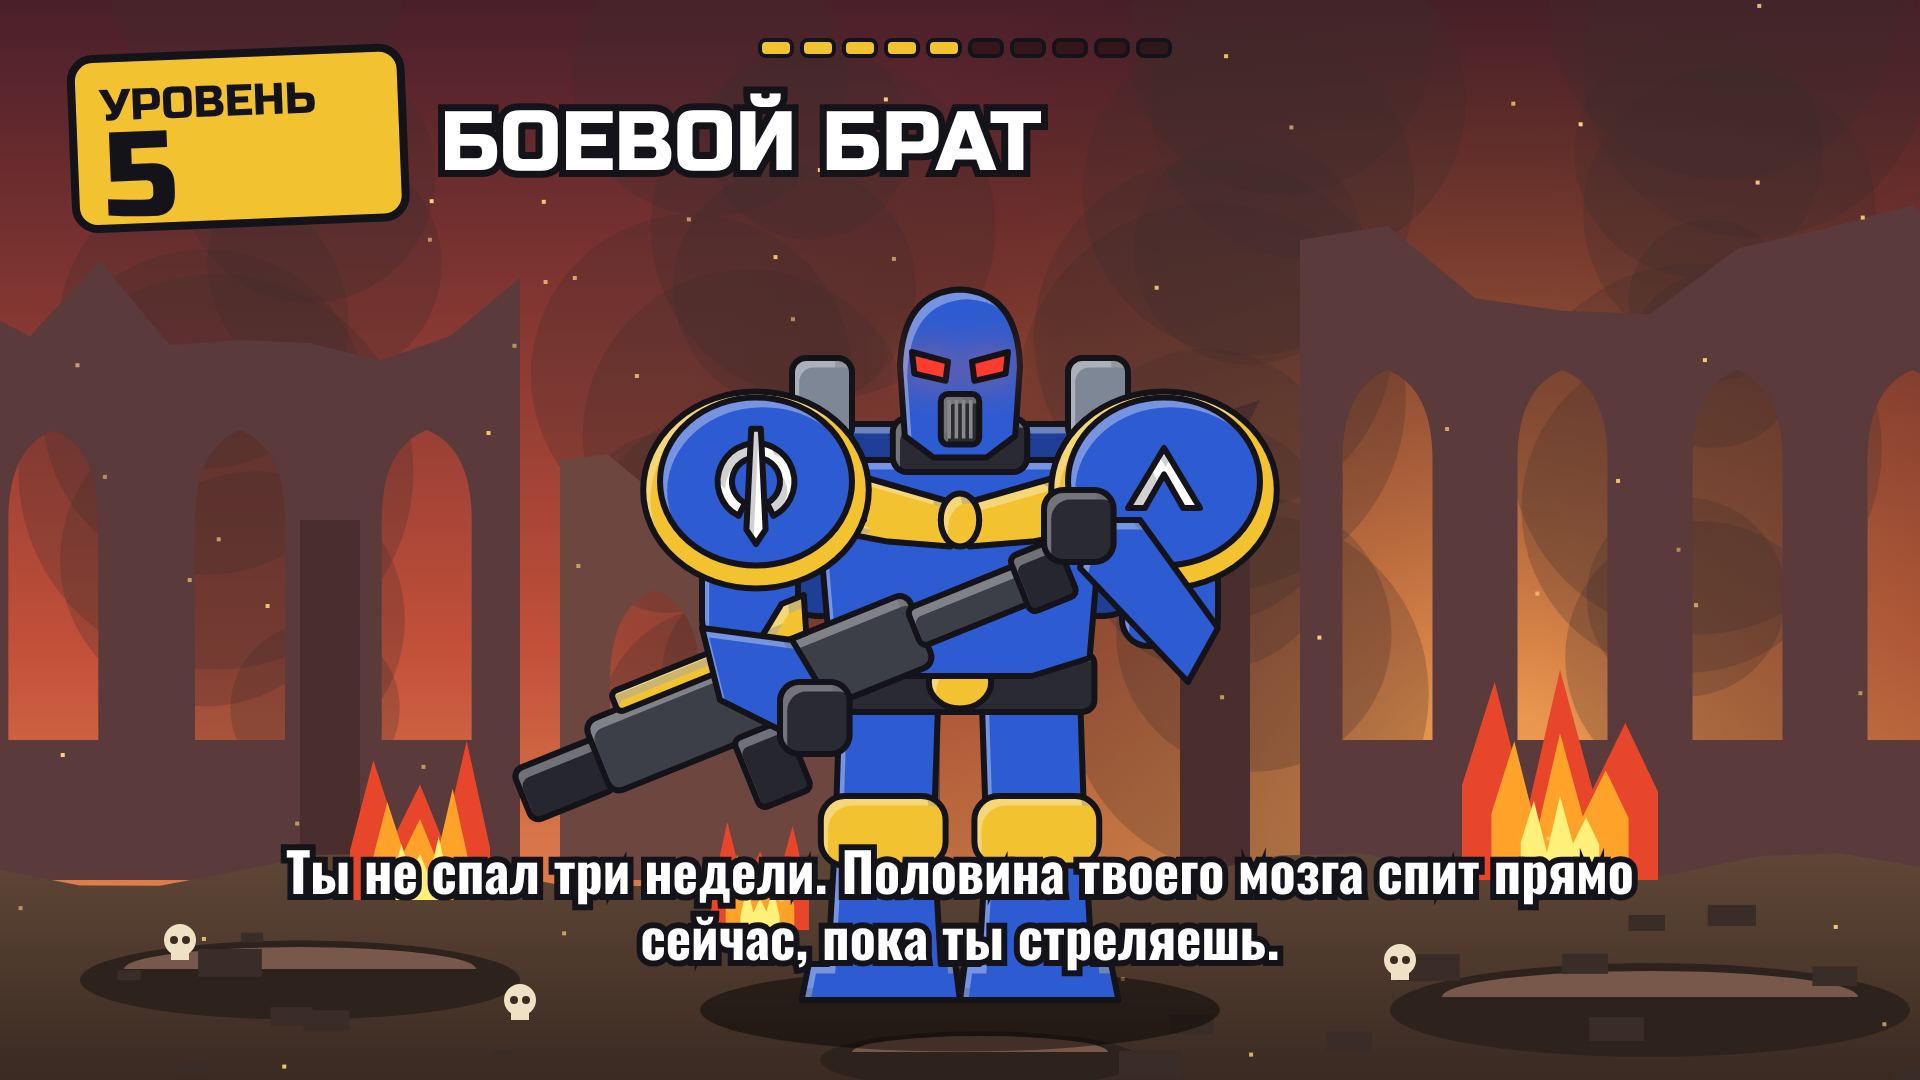
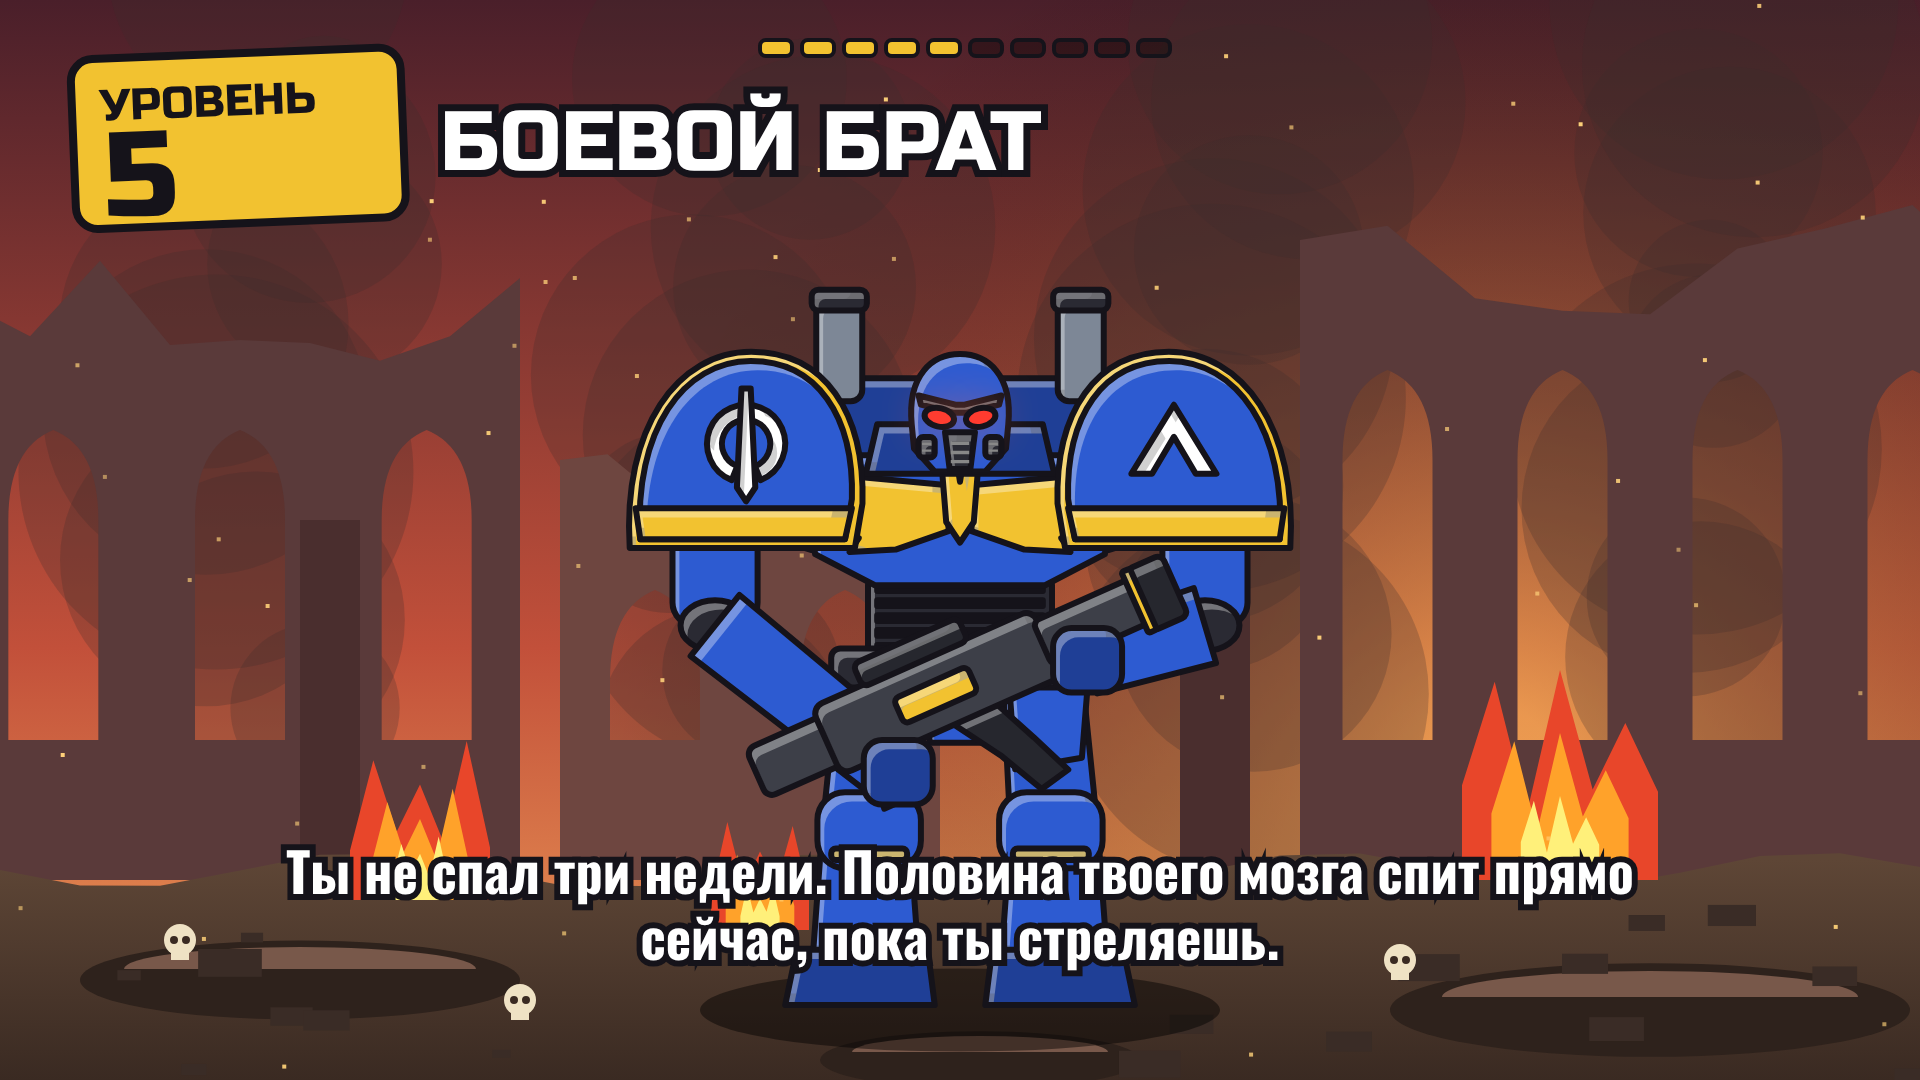
Redesign Space Marine figure closer to canon
Mk VII helmet sunk in a high collar, bell pauldrons with trim, large
chest eagle, ribbed abdomen, backpack exhausts, heavier legs and a
bolter with sickle magazine. Adds clean close-up renders (ui=0).

Claude-Session: https://claude.ai/code/session_01VCiShXH83VhpHK8tEUo9zn

Changed region(s): [[0.25, 0.2444, 0.6875, 0.9472], [0.5625, 0.825, 0.5938, 0.8556]]

diff --git a/src/figures.js b/src/figures.js
@@ -25,89 +25,137 @@ function ellipse(cx, cy, rx, ry) {
   return p;
 }
 
+function limb(a, b, w1, w2) {
+  // thick tapered quad from point a to point b
+  const dx = b[0] - a[0], dy = b[1] - a[1];
+  const len = Math.hypot(dx, dy) || 1;
+  const nx = -dy / len, ny = dx / len;
+  return poly([[a[0] + nx * w1, a[1] + ny * w1], [b[0] + nx * w2, b[1] + ny * w2], [b[0] - nx * w2, b[1] - ny * w2], [a[0] - nx * w1, a[1] - ny * w1]]);
+}
+
 function buildMarine() {
   const parts = [];
   const add = (role, path, opts) => parts.push({ role, path, ...opts });
 
-  // backpack and exhaust vents behind the body
-  add('armorDark', rrect(-150, -480, 300, 160, 30));
-  add('metal', rrect(-140, -535, 50, 70, 12));
-  add('metal', rrect(90, -535, 50, 70, 12));
+  // backpack with exhaust stacks rising above the pauldrons
+  add('armorDark', rrect(-150, -545, 300, 150, 26));
+  for (const x of [-125, 85]) {
+    add('metal', rrect(x, -615, 40, 90, 10));
+    add('dark', rrect(x - 4, -622, 48, 18, 6));
+  }
 
-  // legs
-  const leg = [[-100, -255], [-18, -255], [-22, -135], [-16, -30], [-4, -30], [0, 0], [-132, 0], [-126, -30], [-110, -30], [-104, -135]];
+  // legs: wide stance, heavy shins, big boots
+  const leg = [[-108, -268], [-38, -268], [-44, -150], [-36, -42], [-128, -42], [-120, -150]];
+  const boot = [[-142, -48], [-28, -48], [-22, 0], [-152, 0]];
   add('armor', poly(leg));
   add('armor', poly(mirror(leg)));
-  add('trim', rrect(-116, -170, 104, 58, 20));
-  add('trim', rrect(12, -170, 104, 58, 20));
+  add('armorDark', poly(boot));
+  add('armorDark', poly(mirror(boot)));
+  add('armor', rrect(-124, -185, 90, 66, 24)); // knee pads
+  add('armor', rrect(34, -185, 90, 66, 24));
+  add('trim', rrect(-112, -136, 66, 10, 4));
+  add('trim', rrect(46, -136, 66, 10, 4));
 
-  // belt
-  add('dark', rrect(-112, -290, 224, 50, 10));
-  add('trim', ellipse(0, -265, 26, 22));
+  // tassets and codpiece
+  add('armor', poly([[-112, -290], [-42, -290], [-48, -205], [-106, -215]]));
+  add('armor', poly(mirror([[-112, -290], [-42, -290], [-48, -205], [-106, -215]])));
+  add('armor', poly([[-38, -285], [38, -285], [26, -228], [-26, -228]]));
 
-  // torso
-  add('armor', poly([[-122, -450], [122, -450], [108, -285], [60, -270], [-60, -270], [-108, -285]]));
+  // ribbed abdomen and belt
+  add('dark', rrect(-80, -375, 160, 80, 10));
+  const ribs = P();
+  for (let y = -365; y < -300; y += 13) ribs.rect(-72, y, 144, 5);
+  add('ribs', ribs);
+  add('dark', rrect(-112, -310, 224, 34, 8));
+  add('trim', ellipse(0, -293, 30, 26));
+  add('dark', ellipse(0, -293, 13, 12));
 
-  // chest emblem: generic winged sigil
-  const wing = [[-8, -415], [-95, -440], [-82, -420], [-100, -412], [-80, -400], [-92, -388], [-60, -382], [-8, -378]];
+  // chest plate with a large two-headed eagle across it
+  add('armor', poly([[-135, -478], [135, -478], [126, -392], [74, -365], [-74, -365], [-126, -392]]));
+  const wing = [[-10, -452], [-118, -462], [-104, -444], [-120, -434], [-100, -424], [-112, -412], [-88, -406], [-96, -394], [-56, -396], [-10, -412]];
   add('trim', poly(wing));
   add('trim', poly(mirror(wing)));
-  add('trim', ellipse(0, -400, 16, 22));
+  add('trim', poly([[-16, -470], [-4, -480], [0, -455], [4, -480], [16, -470], [12, -420], [0, -402], [-12, -420]]));
 
-  // upper arms
-  add('armor', rrect(-215, -400, 80, 105, 22));
-  add('armor', rrect(135, -400, 80, 105, 22));
+  // upper arms hanging from under the pauldrons
+  add('armor', rrect(-250, -430, 74, 100, 20));
+  add('armor', rrect(176, -430, 74, 100, 20));
+  add('dark', ellipse(-213, -330, 30, 22)); // elbows
+  add('dark', ellipse(213, -330, 30, 22));
 
-  // pauldrons: trim rim behind armor dome
-  add('trim', ellipse(-170, -425, 94, 82));
-  add('trim', ellipse(170, -425, 94, 82));
-  add('armor', ellipse(-170, -432, 80, 70));
-  add('armor', ellipse(170, -432, 80, 70));
-  // chapter mark: generic broken-circle with blade
-  const mark = P();
-  mark.arc(-170, -432, 32, Math.PI * 0.65, Math.PI * 2.35);
-  mark.arc(-170, -432, 20, Math.PI * 2.35, Math.PI * 0.65, true);
-  mark.closePath();
-  add('mark', mark);
-  add('mark', poly([[-174, -476], [-166, -476], [-162, -392], [-170, -380], [-178, -392]]));
-  // squad marking on right pauldron
-  add('mark', poly([[140, -410], [170, -460], [200, -410], [186, -410], [170, -438], [154, -410]]));
+  // high armoured collar the helmet sits in
+  add('armorDark', poly([[-72, -505], [72, -505], [82, -462], [-82, -462]]));
 
-  // bolter, held diagonally across the body
-  const gm = new DOMMatrix().translate(-10, 40).rotate(-22);
-  const addG = (role, path) => { const q = P(); q.addPath(path, gm); add(role, q); };
-  addG('gunDark', rrect(-250, -350, 75, 46, 8)); // stock
-  addG('gun', rrect(-180, -365, 290, 64, 10)); // body
-  addG('gunDark', rrect(-70, -305, 46, 62, 6)); // magazine
-  addG('gun', rrect(105, -352, 105, 34, 6)); // barrel
-  addG('gunDark', rrect(200, -360, 42, 50, 6)); // muzzle
-  addG('trim', rrect(-150, -380, 120, 18, 5)); // top rail
-  addG('trim', poly([[-30, -365], [10, -395], [30, -395], [20, -365]])); // sight
-
-  // forearms and fists over the gun
-  add('armor', poly([[-215, -310], [-140, -300], [-110, -250], [-130, -215], [-200, -250]]));
-  add('dark', rrect(-150, -265, 58, 60, 16));
-  add('armor', poly([[215, -310], [150, -400], [110, -400], [100, -360], [190, -265]]));
-  add('dark', rrect(70, -425, 58, 60, 16));
-
-  // gorget and helmet
-  add('dark', rrect(-56, -485, 112, 45, 12));
+  // Mk VII helmet: low dome, slanted lenses, beaked grille, side vents
   const helm = P();
-  helm.moveTo(-46, -470);
-  helm.lineTo(-50, -528);
-  helm.quadraticCurveTo(-48, -590, 0, -592);
-  helm.quadraticCurveTo(48, -590, 50, -528);
-  helm.lineTo(46, -470);
-  helm.lineTo(22, -452);
-  helm.lineTo(-22, -452);
+  helm.moveTo(-42, -505);
+  helm.bezierCurveTo(-46, -548, -24, -566, 0, -566);
+  helm.bezierCurveTo(24, -566, 46, -548, 42, -505);
+  helm.lineTo(40, -484);
+  helm.lineTo(22, -464);
+  helm.lineTo(-22, -464);
+  helm.lineTo(-40, -484);
   helm.closePath();
   add('armor', helm);
-  add('lens', poly([[-40, -540], [-10, -532], [-12, -516], [-38, -522]]), { glow: true });
-  add('lens', poly(mirror([[-40, -540], [-10, -532], [-12, -516], [-38, -522]])), { glow: true });
-  add('dark', rrect(-16, -505, 32, 42, 6));
+  add('dark', poly([[-36, -530], [-4, -522], [4, -522], [36, -530], [34, -522], [6, -515], [-6, -515], [-34, -522]])); // brow
+  const lensL = P(); lensL.ellipse(-18, -511, 13, 8, 0.22, 0, Math.PI * 2);
+  const lensR = P(); lensR.ellipse(18, -511, 13, 8, -0.22, 0, Math.PI * 2);
+  add('lens', lensL, { glow: true });
+  add('lens', lensR, { glow: true });
+  add('dark', poly([[-13, -498], [13, -498], [9, -466], [-9, -466]])); // beak grille
+  add('dark', rrect(-36, -494, 14, 18, 4));
+  add('dark', rrect(22, -494, 14, 18, 4));
   const grille = P();
-  for (let x = -9; x <= 9; x += 6) { grille.rect(x - 1.5, -500, 3, 32); }
+  for (const y of [-490, -482, -474]) grille.rect(-8, y, 16, 3);
+  for (const y of [-489, -483]) { grille.rect(-33, y, 8, 2); grille.rect(25, y, 8, 2); }
   add('grille', grille);
+
+  // pauldrons: bell shape, full trim edge plus a bottom band
+  const pauldron = (sx) => {
+    const p = P();
+    p.moveTo(sx * 278, -405);
+    p.bezierCurveTo(sx * 284, -500, sx * 240, -560, sx * 182, -560);
+    p.bezierCurveTo(sx * 124, -560, sx * 92, -512, sx * 94, -440);
+    p.lineTo(sx * 100, -405);
+    p.closePath();
+    return p;
+  };
+  for (const sx of [-1, 1]) {
+    const rim = P(); rim.addPath(pauldron(sx), new DOMMatrix().translate(sx * 186, -480).scale(1.1).translate(-sx * 186, 480));
+    add('trim', rim);
+    add('armor', pauldron(sx));
+    add('trim', poly([[sx * 282, -432], [sx * 94, -432], [sx * 100, -405], [sx * 278, -405]]));
+  }
+  // chapter mark (generic) on the left pauldron, squad arrow on the right
+  const mark = P();
+  mark.arc(-186, -488, 34, Math.PI * 0.62, Math.PI * 2.38);
+  mark.arc(-186, -488, 21, Math.PI * 2.38, Math.PI * 0.62, true);
+  mark.closePath();
+  add('mark', mark);
+  add('mark', poly([[-190, -536], [-182, -536], [-178, -450], [-186, -438], [-194, -450]]));
+  add('mark', poly([[149, -462], [186, -522], [223, -462], [205, -462], [186, -494], [167, -462]]));
+
+  // bolter across the body, barrel up to the right
+  const gm = new DOMMatrix().translate(-5, -270).rotate(-24);
+  const addG = (role, path) => { const q = P(); q.addPath(path, gm); add(role, q); };
+  const at = (x, y) => { const p = gm.transformPoint(new DOMPoint(x, y)); return [p.x, p.y]; };
+  const handR = at(-72, 42), handL = at(118, 20);
+
+  add('armor', limb([-213, -330], handR, 34, 30)); // vambraces
+  add('armor', limb([213, -330], handL, 34, 30));
+
+  addG('gun', rrect(-185, -30, 80, 46, 8)); // stock
+  addG('gunDark', poly([[-90, 20], [-56, 20], [-64, 66], [-96, 66]])); // grip
+  addG('gunDark', poly([[-12, 22], [30, 22], [48, 62], [64, 100], [36, 106], [16, 66]])); // sickle magazine
+  addG('gun', rrect(-118, -40, 210, 64, 10)); // receiver
+  addG('gunDark', rrect(-70, -60, 100, 22, 6)); // carry handle
+  addG('trim', rrect(-50, -18, 70, 24, 5)); // eagle plate
+  addG('gun', rrect(88, -30, 96, 42, 6)); // barrel shroud
+  addG('gunDark', rrect(180, -38, 34, 58, 6)); // muzzle
+  addG('trim', rrect(176, -38, 8, 58, 2));
+
+  add('armorDark', rrect(handR[0] - 30, handR[1] - 28, 60, 56, 16)); // fists
+  add('armorDark', rrect(handL[0] - 30, handL[1] - 28, 60, 56, 16));
   return parts;
 }
 

diff --git a/src/styles.js b/src/styles.js
@@ -79,7 +79,7 @@ const cartoon = {
       craterRim: '#78584a', rubble: '#3a2c26', bone: '#efe2c4', fire1: '#e8462a', fire2: '#ffa22a', fire3: '#fff07a', ember: '#ffd27a',
     },
   },
-  marine: { armor: '#2d5bd1', armorDark: '#1f3f96', trim: '#f2c230', dark: '#2a2a33', metal: '#7d8796', gun: '#3d3f48', gunDark: '#26272e', lens: '#ff3b2f', grille: '#888', mark: '#ffffff' },
+  marine: { armor: '#2d5bd1', armorDark: '#1f3f96', trim: '#f2c230', dark: '#2a2a33', metal: '#7d8796', gun: '#3d3f48', gunDark: '#26272e', lens: '#ff3b2f', grille: '#888', mark: '#ffffff', ribs: '#4a4a58' },
   kid: { skin: '#f0b98a', hair: '#3b2a1e', cloth: '#8a6d4a', cloth2: '#c0392b', patch: '#6e5539', pants: '#4f5a64', boots: '#2e2620', belt: '#3a2e26', lens: '#7fd3ff', metal: '#8b939e', ink: '#1a1a1a', dirt: 'rgba(90,60,40,0.4)' },
   figure: {
     outline: '#15131a', outlineW: 6, glow: '#ff6a4a',
@@ -139,7 +139,7 @@ const grimdark = {
       craterRim: '#2a1c16', rubble: '#0c0807', bone: '#9a8c74', fire1: '#a8200e', fire2: '#e86a1a', fire3: '#ffd27a', ember: '#ff8a3a',
     },
   },
-  marine: { armor: '#1b2a4a', armorDark: '#101a30', trim: '#8a6a2a', dark: '#111116', metal: '#3a3e44', gun: '#1c1d22', gunDark: '#0f1013', lens: '#ff2a1a', grille: '#55504a', mark: '#c8c0b0' },
+  marine: { armor: '#1b2a4a', armorDark: '#101a30', trim: '#8a6a2a', dark: '#111116', metal: '#3a3e44', gun: '#1c1d22', gunDark: '#0f1013', lens: '#ff2a1a', grille: '#55504a', mark: '#c8c0b0', ribs: '#2a2a32' },
   kid: { skin: '#9c7a62', hair: '#1a120c', cloth: '#3e3426', cloth2: '#5a1a14', patch: '#2e261c', pants: '#242a2e', boots: '#121010', belt: '#1a1612', lens: '#6a9a80', metal: '#4a4e54', ink: '#0a0806', dirt: 'rgba(20,14,10,0.6)' },
   figure: {
     glow: '#ff2a1a',

diff --git a/src/main.js b/src/main.js
@@ -19,7 +19,7 @@ function renderFrame(styleId, sceneId, t) {
       drawFigure(c, window.FIGURES.kid, st.kid, 720, 965, 1.45, st.figure);
     } else {
       shadowEllipse(c, 960, 1010, 260, 'rgba(0,0,0,0.45)');
-      drawFigure(c, window.FIGURES.marine, st.marine, 960, 1000, 1.2, st.figure);
+      drawFigure(c, window.FIGURES.marine, st.marine, 960, 1005, 1.15, st.figure);
     }
   };
 
@@ -39,7 +39,7 @@ function renderFrame(styleId, sceneId, t) {
     paintWorld(ctx);
   }
   if (st.post) st.post(ctx, sc);
-  st.ui(ctx, sc);
+  if (!window.__noUi) st.ui(ctx, sc);
 }
 
 (async () => {
@@ -50,6 +50,7 @@ function renderFrame(styleId, sceneId, t) {
   await document.fonts.load('italic 700 40px "Old Standard TT"', 'Яя0123456789+');
   await document.fonts.load('40px "Ruslan Display"', 'Яя0123456789+');
   await document.fonts.load('40px "Press Start 2P"', 'Яя0123456789+');
+  window.__noUi = q.get('ui') === '0';
   renderFrame(q.get('style') || 'cartoon', q.get('scene') || 'hive', parseFloat(q.get('t') || '1'));
   window.__ready = true;
 })();
